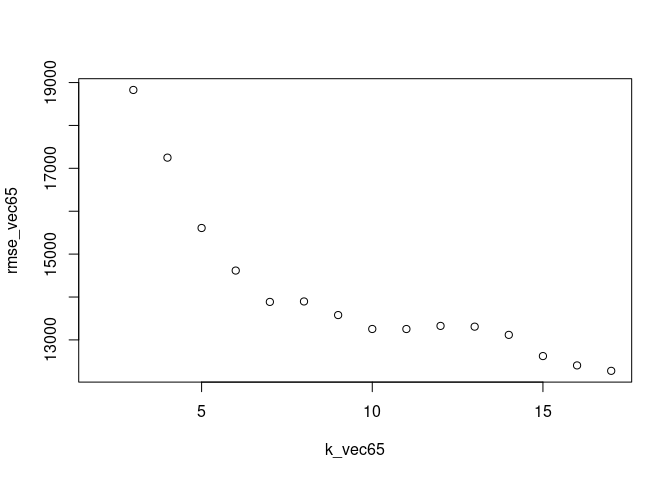
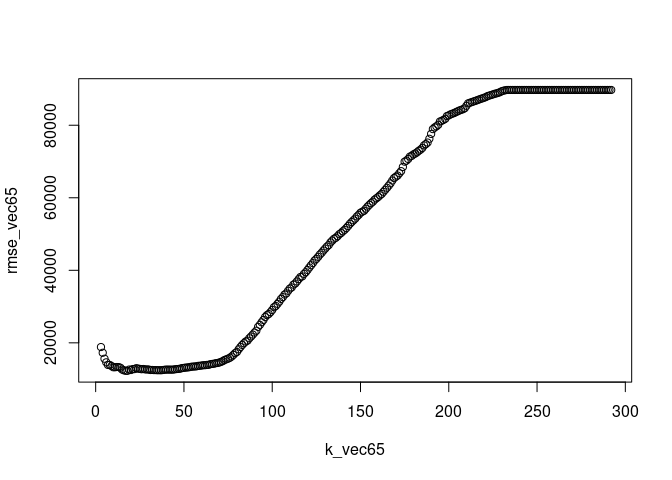
Homework1Final

diff --git a/HW1.md b/HW1.md
@@ -41,7 +41,7 @@ when females were added to the sport.
 
 ![](HW1_files/figure-gfm/unnamed-chunk-13-1.png)<!-- --> \### trim = 65
 
-The minimum RMSE for the AMG 65 trim is 18150.36 at k = 13.
+The minimum RMSE for the AMG 65 trim is 12,266.44 at k = 18.
 
 ### Plot for RMSE vs K, 65 AMG
 
@@ -218,7 +218,7 @@ sclass65_test  = testing(sclass65_split)
 set.seed(123)
 ## Attempt for loop
 
-k_vec65= c(2:17)
+k_vec65= c(2:292)
 knnk65 = list()
 output65 = list()
 rmse_vec65 = c()
@@ -236,24 +236,25 @@ plot(k_vec65, rmse_vec65)
 
 my_data65 = data.frame(k_vec65, rmse_vec65)
 my_data65
-min(my_data65$rmse_vec)
+
+
 
 plot(k_vec65, rmse_vec65)
 
-## Manual calculation for k = 13
+## Manual calculation for k = 18
 
-knn13 = knnreg( price ~ mileage, data=sclass65_train, k=13)
+knn18 = knnreg( price ~ mileage, data=sclass65_train, k=18)
 
 
-## Predictions Knn13
+## Predictions Knn18
 
 sclass65pred_test = sclass65_test %>%
-  mutate(Price_pred = predict(knn13, sclass65_test))
+  mutate(Price_pred = predict(knn18, sclass65_test))
 
-##RMSE KNN13
-modelr::rmse(knn13, sclass65pred_test)
+##RMSE KNN18
+modelr::rmse(knn18, sclass65pred_test)
 
-## Plot KNN13
+## Plot KNN18
 
 p_test = ggplot(data = sclass65pred_test) + 
   geom_point(mapping = aes(x = mileage, y = price), alpha=0.2) 
